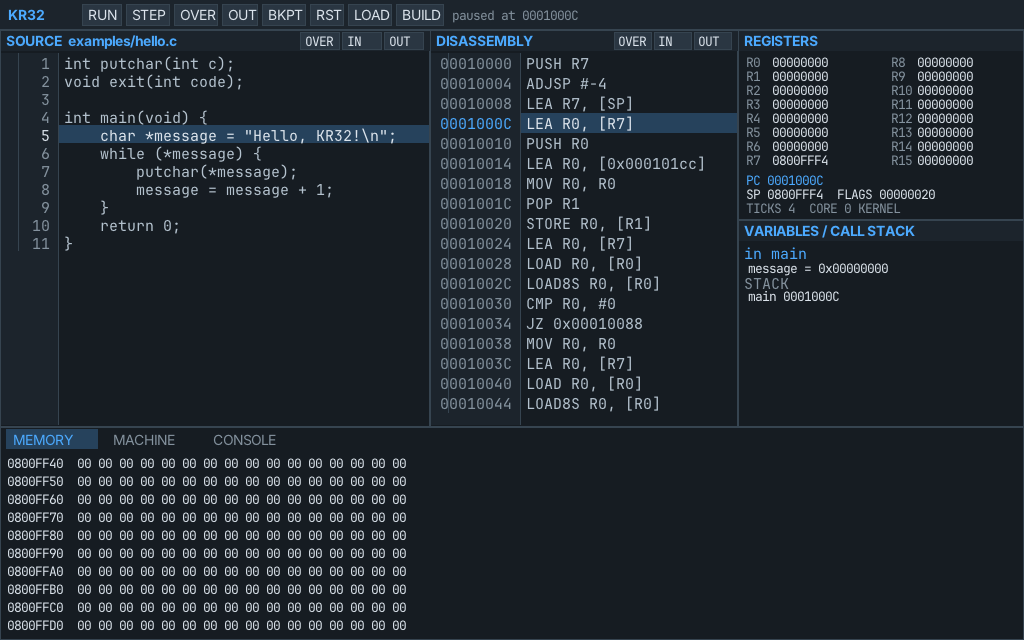
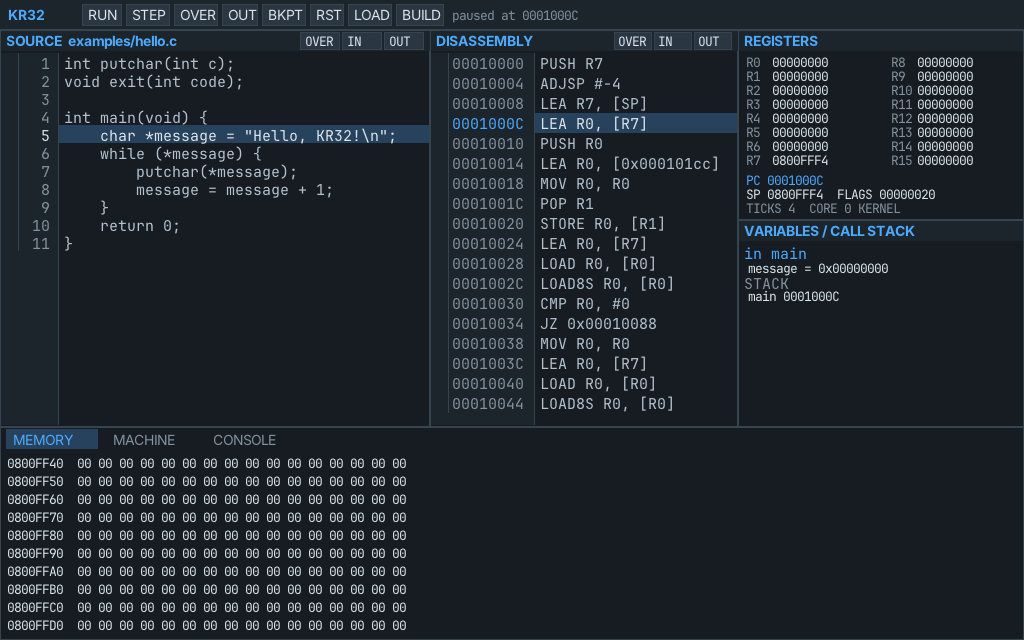
UI: align disassembly gutter spacing with source

Changed region(s): [[0.4375, 0.0938, 0.6875, 0.6562]]

diff --git a/src/ui/debugger_ui.cpp b/src/ui/debugger_ui.cpp
@@ -31,7 +31,7 @@ constexpr Color kBad{255, 104, 104, 255};
 constexpr int kToolbarHeight = 30;
 constexpr int kSourceGutter = 58;
 constexpr int kSourceBreakGutter = 18;
-constexpr int kAsmGutter = 90;
+constexpr int kAsmGutter = 104;
 constexpr int kAsmBreakGutter = 18;
 
 std::string hex(std::uint32_t value, int digits) {
@@ -505,9 +505,9 @@ void DebuggerUI::draw_disassembly(Canvas& canvas, Rect rect) {
         const bool has_breakpoint =
             session_.breakpoints().find(address) != session_.breakpoints().end();
         if (has_breakpoint) {
-            canvas.fill(Rect{rect.x + 6, y + 5, 7, 8}, kBad);
+            canvas.fill(Rect{rect.x + 8, y + 5, 7, 8}, kBad);
         }
-        canvas.text(rect.x + kAsmGutter - 8 - address_width, y, hex(address, 8),
+        canvas.text(rect.x + kAsmGutter - 10 - address_width, y, hex(address, 8),
                     address == pc ? kAccent : kDim, FontRole::Mono);        canvas.text(instruction_x, y,
                     trim_to(text, static_cast<std::size_t>((rect.x + rect.width - instruction_x) / 8)),
                     address == pc ? kText : Color{180, 194, 206, 255}, FontRole::Mono);

diff --git a/implementation.md b/implementation.md
@@ -3,7 +3,7 @@
 > **Status:** active. This file is the working checklist, milestone gate, dependency
 > record, and running log for KR32.
 >
-> **Last updated:** 2026-11-02 08:05 -08:00
+> **Last updated:** 2026-11-02 08:10 -08:00
 >
 > **Related:** [KR32-plan.md](KR32-plan.md) (architecture and decisions),
 > [docs/isa-v1.md](docs/isa-v1.md) (encoding), [kr16-final-plan.md](kr16-final-plan.md)
@@ -822,6 +822,10 @@ Newest entries at the bottom. Use the local time zone.
       right-aligned address column with separators, gutter hover, left-click
       breakpoint toggling, and the same right-click Toggle/Run-to menu. Verified
       live with a disassembly gutter right-click and Run to address menu.
+- **2026-11-02 08:10 -08:00** — Widened the disassembly address gutter and added
+      padding between the breakpoint column and the address column so it mirrors
+      the source gutter geometry instead of addresses touching the breakpoint
+      separator. Screenshots and docs updated.
 
 ## 10. Updating this file
 

diff --git a/docs/ui.md b/docs/ui.md
@@ -44,7 +44,7 @@ directly.
 ## Gutter behavior
 
 - Source gutter: breakpoint square column, right-aligned line-number column, separators; source text starts after the gutter.
-- Disassembly gutter: breakpoint square column, right-aligned address column, separators; the instruction column starts after the gutter.
+- Disassembly gutter: breakpoint square column, right-aligned address column with padding, separators; the instruction column starts after the gutter. It mirrors the source gutter geometry.
 - Left-click a gutter row toggles a breakpoint at that line/instruction.
 - Right-click a source or disassembly gutter row opens the KR16-style menu:
   **Toggle breakpoint** and **Run to line N** / **Run to 0xADDR**.
